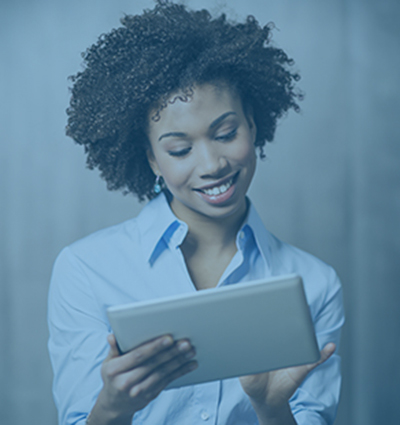
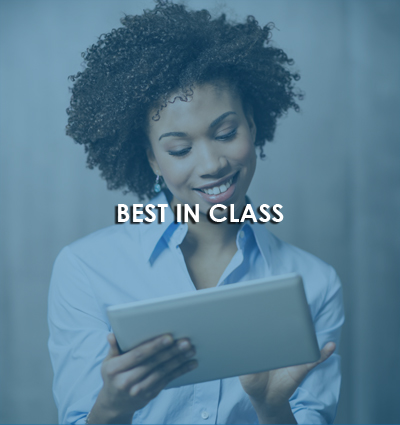
Add files via upload

diff --git a/ESLIDER/delete.html b/ESLIDER/delete.html
@@ -5,13 +5,12 @@
 <title>Untitled Document</title>
 <style type="text/css">
 *{
-	box-sizing: border-box;
 	font-family: "Century Gothic";
 	color: #FFF;
 	font-size: 14px;
 	font-weight: bolder;
-	text-align: left;
 	text-shadow: 2px 2px 5px rgba(0, 0, 0, 0.88);
+	text-transform: uppercase;
 }
 nav li {
 	
@@ -32,13 +31,12 @@ nav ul {
 nav li a {
 	display: block;
 	text-decoration: none;
-	padding: 5px 10px;
-	padding-top: 235px;
 	/*  font-size:30px;INVERSE SKEW */
 	transform: skew(10deg);
+	clear: both;
 }
 nav li:hover{
-	width: 230px;
+	width: 210px;
 	-webkit-transition: all 1s ease;
 	-moz-transition: all 1s ease;
 	-ms-transition: all 1s ease;
@@ -52,29 +50,40 @@ nav li:hover{
 nav li {
 	background-color: #CF6;
 	height: 310px;
-	width: 220px;
+	width: 210px;
 	text-align: center;
-	vertical-align: baseline;
 	background-position: center center;
 	border-top-width: thick;
 	border-right-width: thick;
 	border-bottom-width: thick;
 	border-left-width: thick;
-	border-top-color: #FFF;
-	border-right-color: #FFF;
-	border-bottom-color: #FFF;
-	border-left-color: #FFF;
+	border-top-color: #1176bc;
+	border-right-color: #1176bc;
+	border-bottom-color: #1176bc;
+	border-left-color: #1176bc;
 	text-indent: 0px;
 }
 
 #img1 {
 	background-attachment: scroll;
 	background-image: url(academy3.jpg);
+	border-top-width: 3px;
+	border-right-width: 3px;
+	border-bottom-width: 3px;
+	border-left-width: 3px;
+	border-top-style: none;
+	border-right-style: solid;
+	border-bottom-style: none;
+	border-left-style: solid;
+	border-top-color: #1176bc;
+	border-right-color: #1176bc;
+	border-bottom-color: #1176bc;
+	border-left-color: #1176bc;
 }
 #img1:hover {
 	background-attachment: scroll;
 	background-image: url(academy31.jpg);
-
+	background-position: center center;
 }
 
 
@@ -82,6 +91,18 @@ nav li {
 	background-attachment: scroll;
 	background-image: url(community.jpg);
 	background-position: center center;
+	border-top-width: 3px;
+	border-right-width: 3px;
+	border-bottom-width: 3px;
+	border-left-width: 3px;
+	border-top-style: none;
+	border-right-style: solid;
+	border-bottom-style: none;
+	border-left-style: solid;
+	border-top-color: #1176bc;
+	border-right-color: #1176bc;
+	border-bottom-color: #1176bc;
+	border-left-color: #1176bc;
 }
 #img2:hover  {
 	background-attachment: scroll;
@@ -94,6 +115,18 @@ nav li {
 	background-attachment: scroll;
 	background-image: url(development2.jpg);
 	background-position: center center;
+	border-top-width: 3px;
+	border-right-width: 3px;
+	border-bottom-width: 3px;
+	border-left-width: 3px;
+	border-top-style: none;
+	border-right-style: solid;
+	border-bottom-style: none;
+	border-left-style: solid;
+	border-top-color: #1176bc;
+	border-right-color: #1176bc;
+	border-bottom-color: #1176bc;
+	border-left-color: #1176bc;
 }
 #img3:hover {
 	background-attachment: scroll;
@@ -105,12 +138,25 @@ nav li {
 	background-attachment: scroll;
 	background-image: url(training-1.jpg);
 	background-position: center center;
+	border-top-width: 3px;
+	border-right-width: 3px;
+	border-bottom-width: 3px;
+	border-left-width: 3px;
+	border-top-style: none;
+	border-right-style: solid;
+	border-bottom-style: none;
+	border-left-style: solid;
+	border-top-color: #1176bc;
+	border-right-color: #1176bc;
+	border-bottom-color: #1176bc;
+	border-left-color: #1176bc;
 	
 }
 #img4:hover  {
 	background-attachment: scroll;
 	background-image: url(training-11.jpg);
 	background-position: center center;
+	
 	
 }
 
@@ -121,11 +167,17 @@ nav li {
 <body>
 <nav>
   <ul>
-    <li id="img1"><a href="http://estudysa.co.za/services/commercial-training-solutions/">COMMERCIAL TRAINING SOLUTIONS </a></li>
-    <li id="img2"><a href="http://estudysa.co.za/services/academy/">ACCREDITED eSTUDY ACADEMY </a></li>
-    <li id="img3"><a href="http://estudysa.co.za/services/development-of-elearning-material/">DEVELOPMENT OF<br/> MATERIALS    </a></li>
-    <li id="img4"><a href="http://estudysa.co.za/services/community-development/">COMMUNITY DEVELOPMENT SOLUTIONS    </a></li>
+
+    <a href="https://estudy.eu.crossknowledge.com/site/search/results#context=lo&lang=en&theme=Leadership"><li id="img4"><!--Leadership--></li></a>
+  
+    <a href="https://estudy.eu.crossknowledge.com/site/search/results#context=training&lang=en&chapter=BIC"><li id="img1"><!--Best IC--></li></a>
+      
+    <a href="https://estudy.eu.crossknowledge.com/site/search/results#context=lo&lang=en&theme=Sales%20and%20Marketing"><li id="img3"><!--Sales and Marketing  Marketing--></li></a>
+
+    <a href="https://estudy.eu.crossknowledge.com/site/search/results#context=training&lang=en&chapter=CPD%20Accredited"><li id="img2"><!--CPD Accredited--></li></a>
+    
   </ul>
+</nav>
 </nav>
 
 </body>
